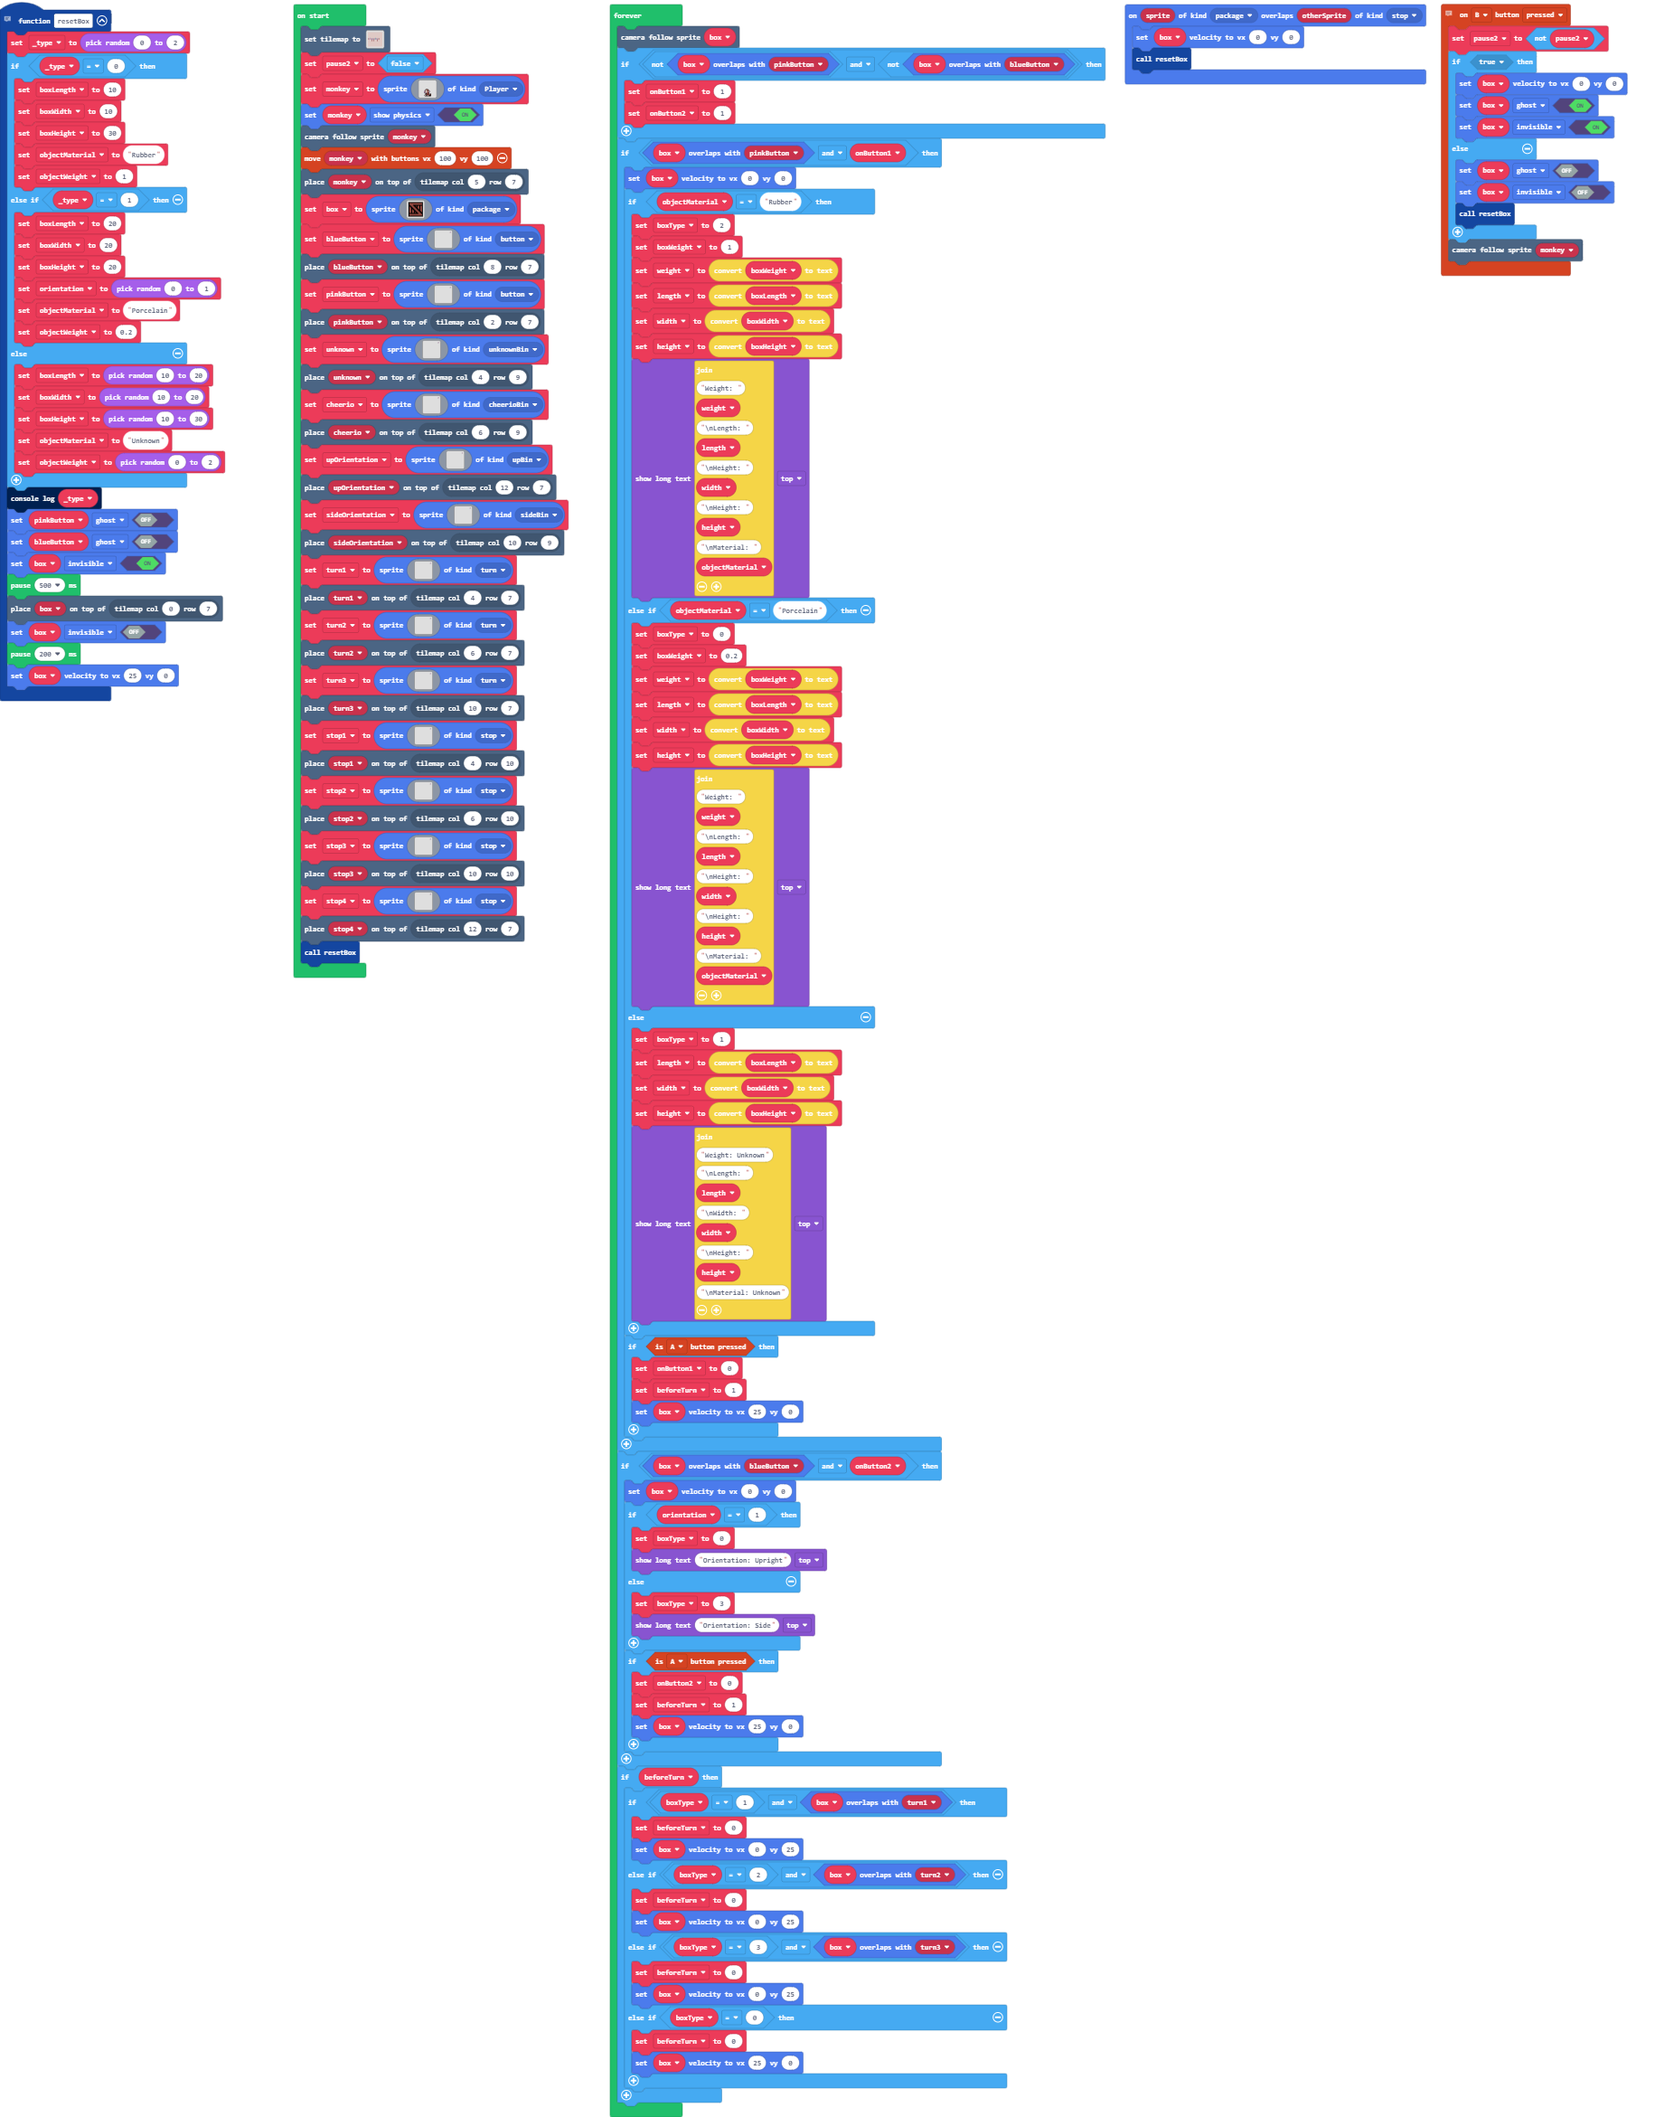
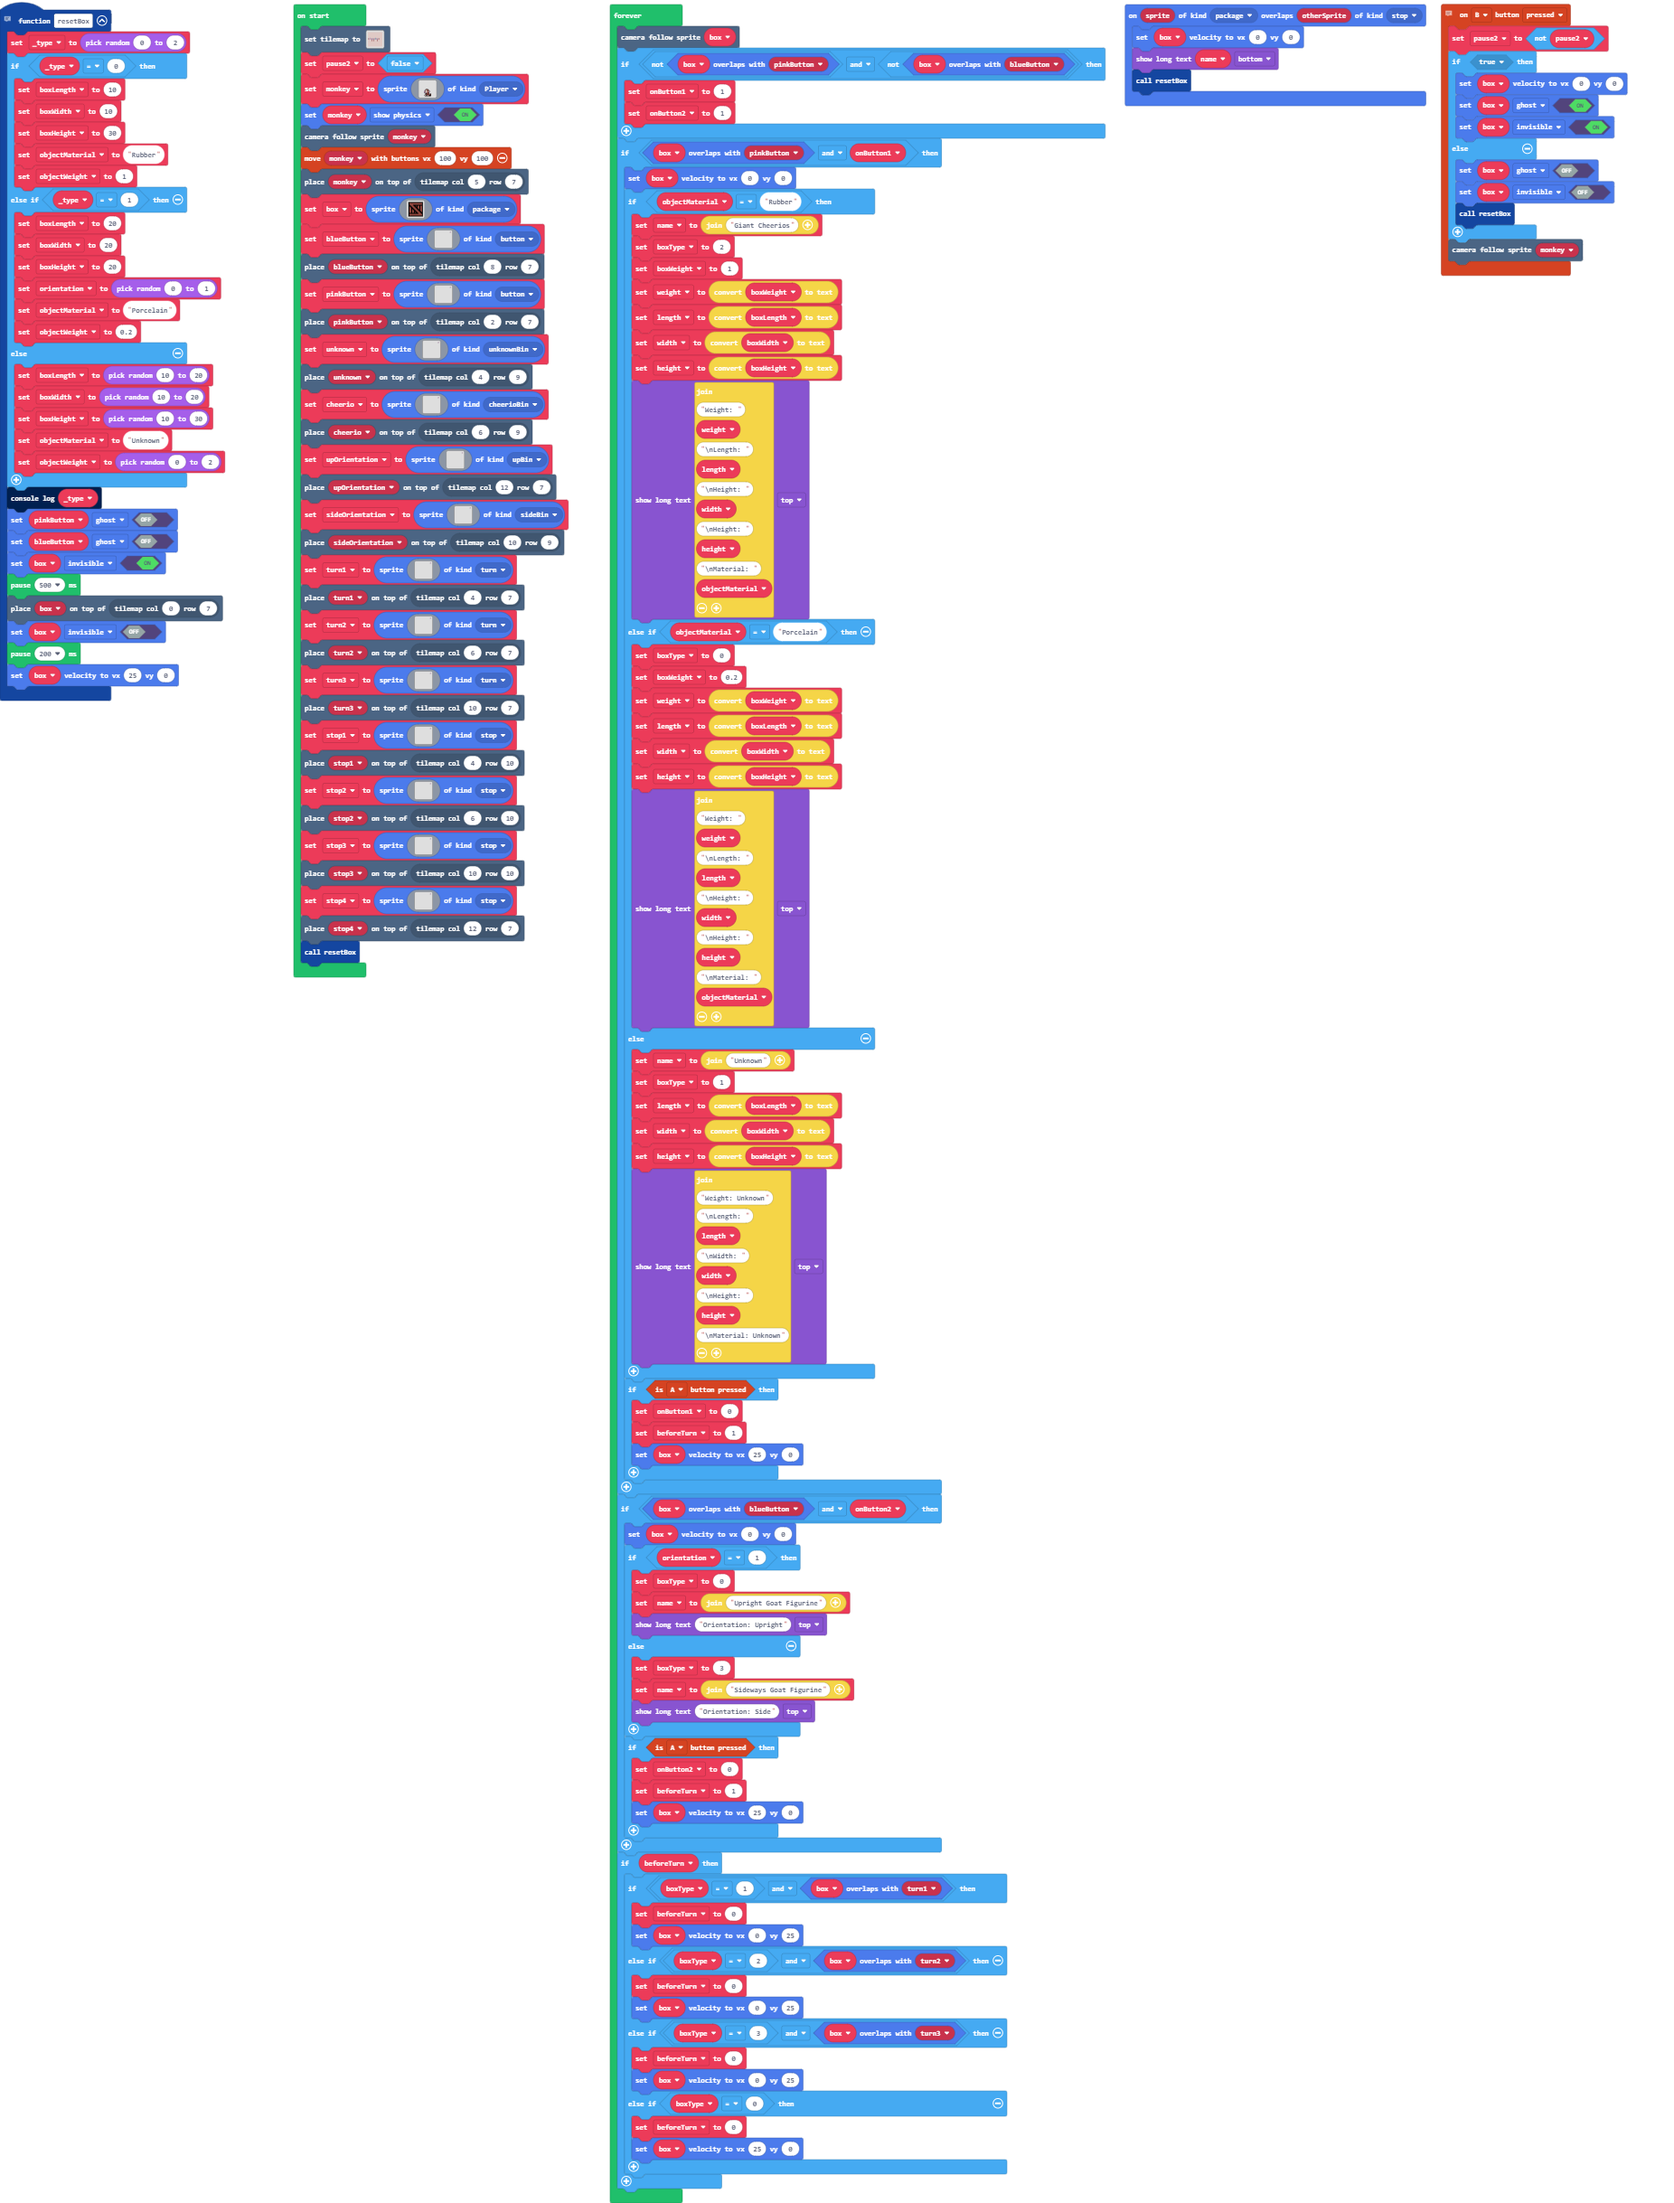
Should be the final update

Changed region(s): [[0.3693, 0.0, 0.9849, 0.9979], [0.0, 0.0, 0.3386, 0.4677]]

diff --git a/main.ts b/main.ts
@@ -59,6 +59,7 @@ function resetBox () {
 }
 sprites.onOverlap(SpriteKind.package, SpriteKind.stop, function (sprite, otherSprite) {
     box.setVelocity(0, 0)
+    game.showLongText(name, DialogLayout.Bottom)
     resetBox()
 })
 let beforeTurn = 0
@@ -70,6 +71,7 @@ let boxWeight = 0
 let boxType = 0
 let onButton2 = 0
 let onButton1 = 0
+let name = ""
 let orientation = 0
 let objectWeight = 0
 let objectMaterial = ""
@@ -414,6 +416,7 @@ forever(function () {
     if (box.overlapsWith(pinkButton) && onButton1) {
         box.setVelocity(0, 0)
         if (objectMaterial == "Rubber") {
+            name = "Giant Cheerios"
             boxType = 2
             boxWeight = 1
             weight = convertToText(boxWeight)
@@ -430,6 +433,7 @@ forever(function () {
             height = convertToText(boxHeight)
             game.showLongText("Weight: " + weight + "\\nLength: " + length + "\\nHeight: " + width + "\\nHeight: " + height + "\\nMaterial: " + objectMaterial, DialogLayout.Top)
         } else {
+            name = "Unknown"
             boxType = 1
             length = convertToText(boxLength)
             width = convertToText(boxWidth)
@@ -446,9 +450,11 @@ forever(function () {
         box.setVelocity(0, 0)
         if (orientation == 1) {
             boxType = 0
+            name = "Upright Goat Figurine"
             game.showLongText("Orientation: Upright", DialogLayout.Top)
         } else {
             boxType = 3
+            name = "Sideways Goat Figurine"
             game.showLongText("Orientation: Side", DialogLayout.Top)
         }
         if (controller.A.isPressed()) {
